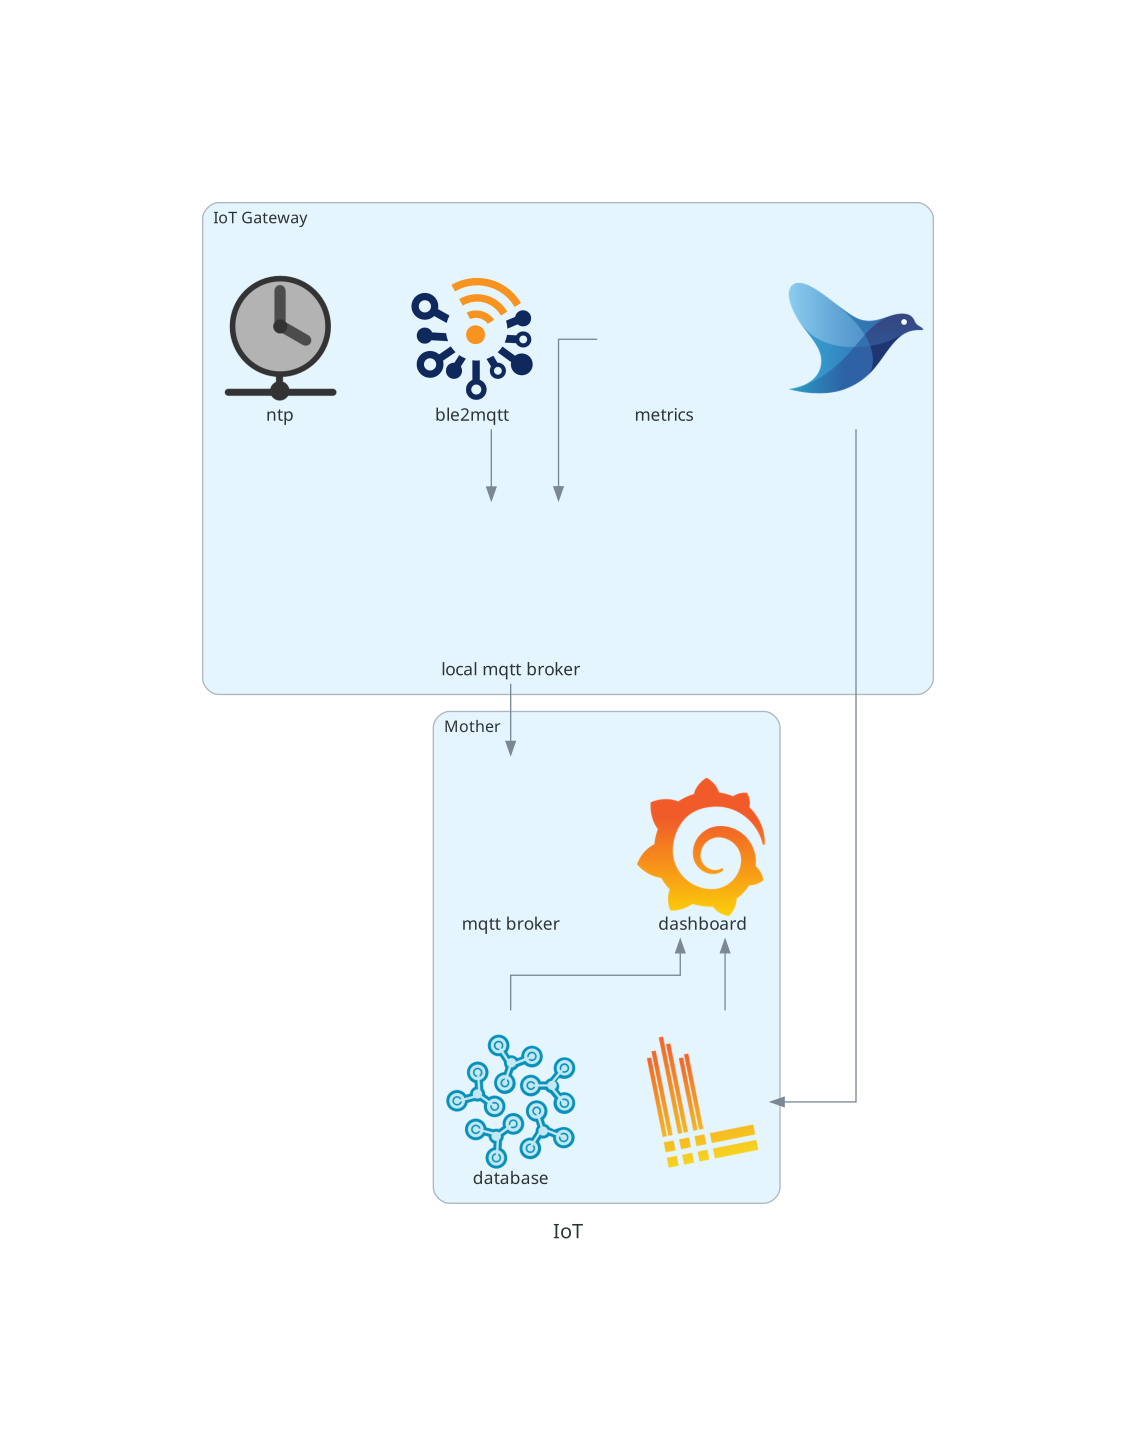
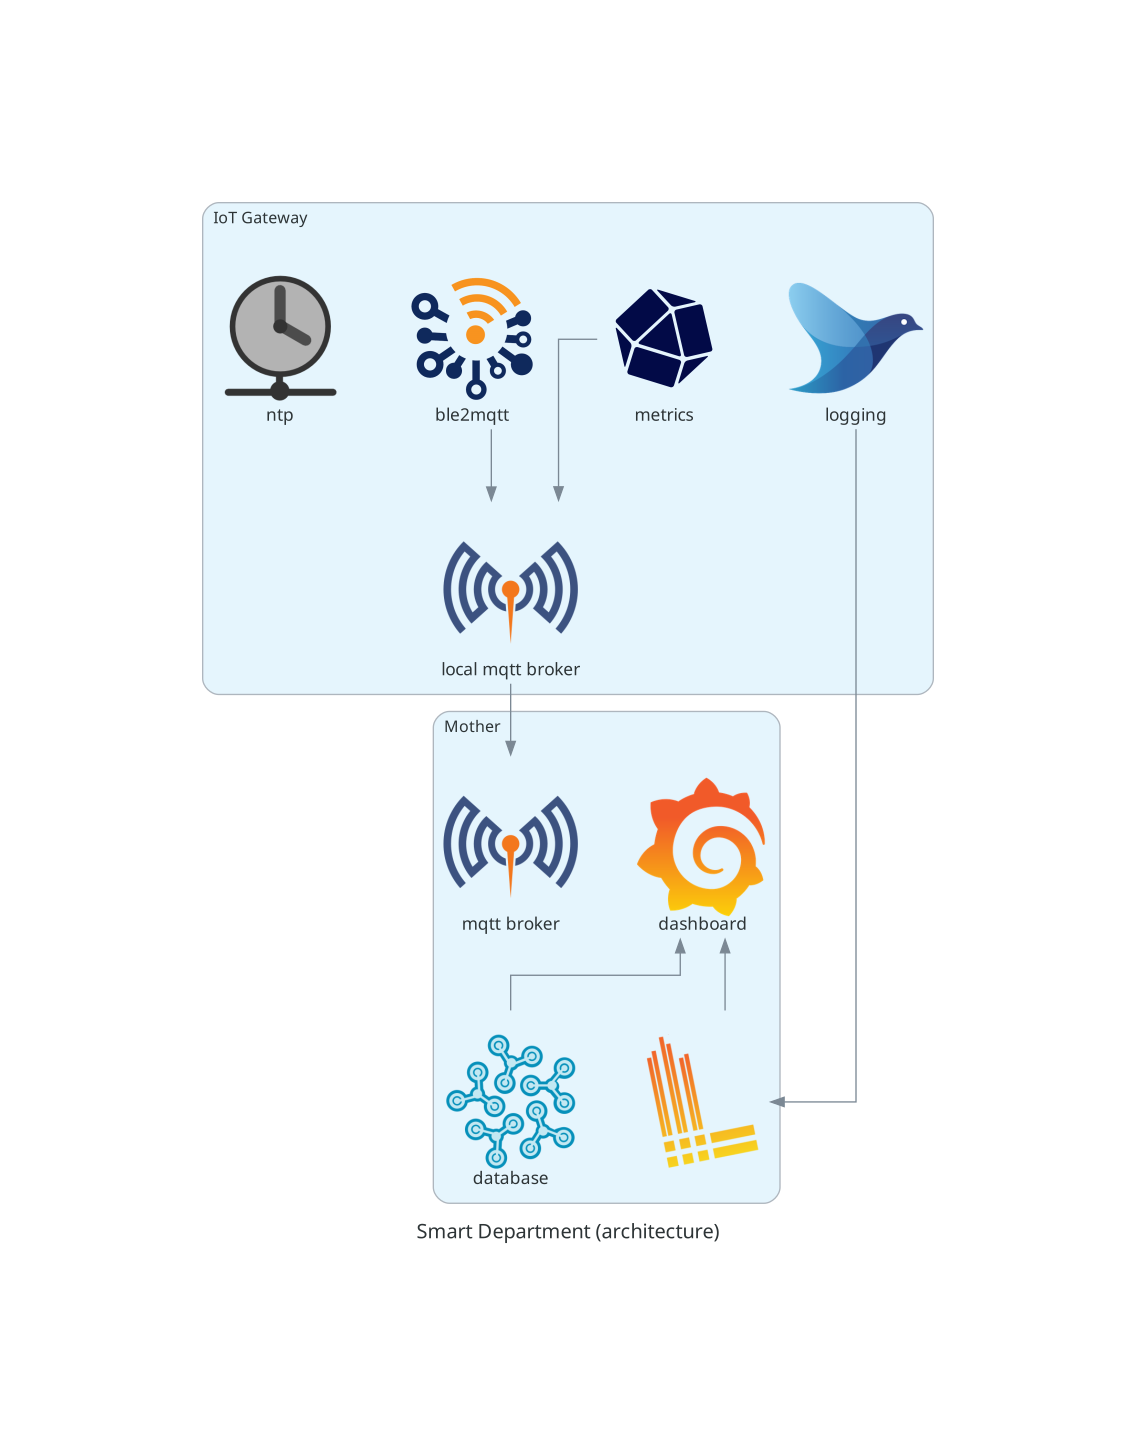
aktualizacia obrazku architektury

diff --git a/doc/images/architecture.py b/doc/images/architecture.py
@@ -7,9 +7,9 @@ from diagrams.onprem.aggregator import Fluentd
 from diagrams.onprem.monitoring import Grafana
 from diagrams.onprem.database import InfluxDB
 
-with Diagram('IoT', show=True, direction='TB', filename='architecture'):
+with Diagram('Smart Department (architecture)', show=True, direction='TB', filename='architecture'):
     with Cluster('IoT Gateway'):
-        fluentd = Fluentd()
+        fluentd = Fluentd('logging')
         telegraf = Custom('metrics', 'telegraf.png')
         theengs = Custom('ble2mqtt', 'theengs.png')
         chrony = Custom('ntp', 'chrony.png')
